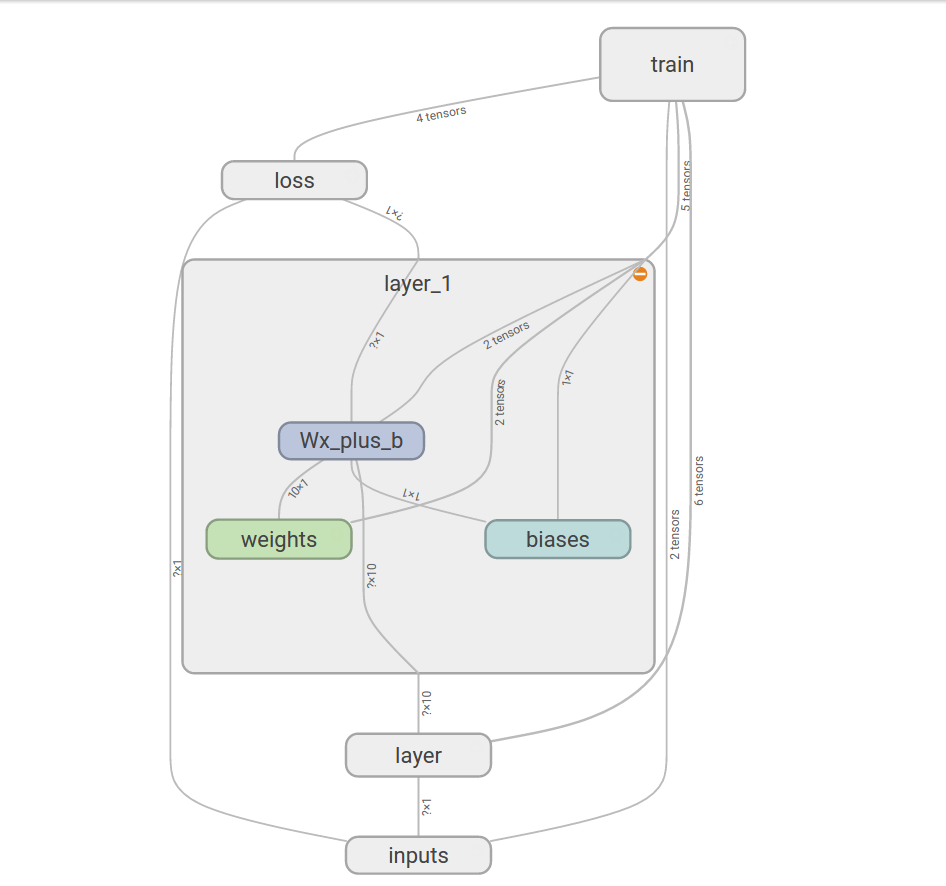
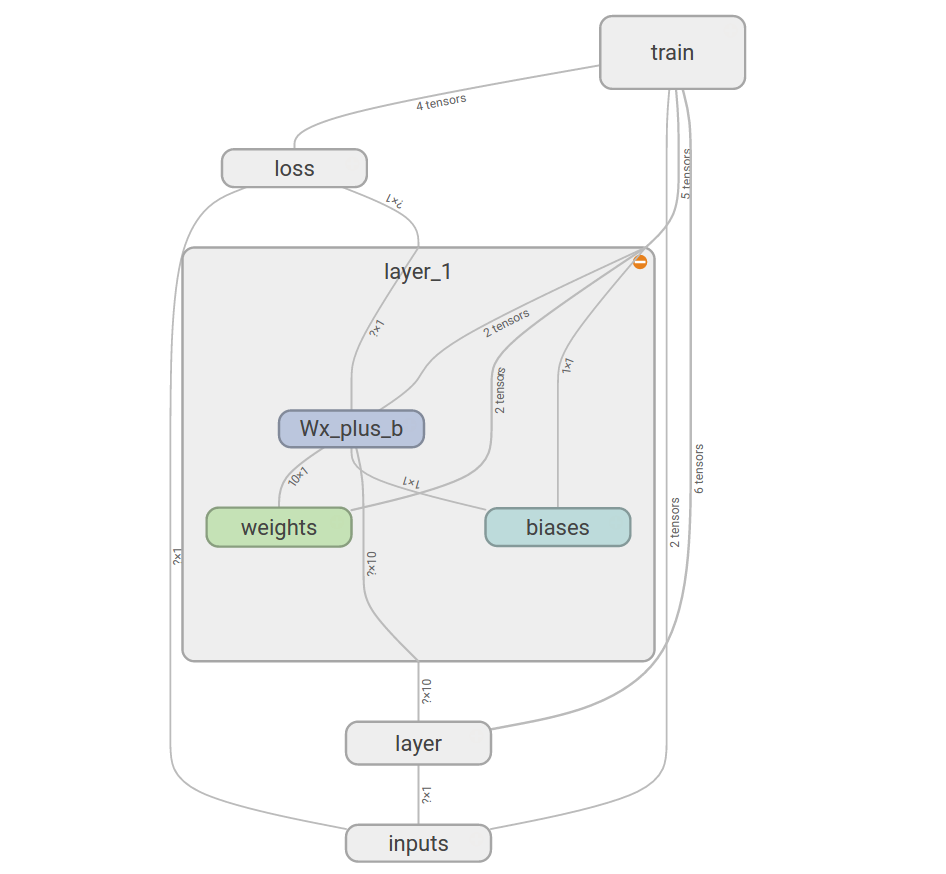
website content update
see details in blog

diff --git a/AI_eca/tensorflowLearn/notes.html b/AI_eca/tensorflowLearn/notes.html
@@ -4,7 +4,7 @@
     <meta charset="utf-8">
     <meta http-equiv="X-UA-Compatible" content="IE=edge">
     <title>AI construction site</title>
-    <link rel="stylesheet" href="css/notes_0-0-1a1.css">
+    <link rel="stylesheet" href="css/notes_0-0-1a2.css">
 </head>
 <body>
 	<header class="tm-header">
@@ -32,20 +32,42 @@
 	<div class="tm-container">
 		<div class="tm-content">
 			<img src="assets/tensorflowTitle.jpg" style="width: 100%">
-			<article>
+
+			<article id="tensorflowNotesTitle">
 				<h2>Tensorflow notes</h2>
-				<p>
+			</article>
+			
+			<article id="tensorflowStucture">
+				<h3>
 					the basic structure of a tensorflow program
+				</h3>
+				<img src="assets/Tensorflow_graphs.png" style="width: 100%">
+			</article>
+
+			<article id="usingTensorboard">
+				<h3>
+					using tensorboard to visualize the model
+				</h3>
+				<img src="assets/MyTensorboard.png" style="width: 100%">
+				<p>
+					put this in your code after the session sess is defined:<br>
+					writer = tf.summary.FileWriter('./graphs', sess.graph)<br>
+					writer.close()<br>
+					<br>
+					use this command in the terminal to start the tensorboard at 127.0.0.1:6006<br>
+					tensorboard --logdir="./graphs"
 				</p>
 			</article>
-			<img src="assets/Tensorflow_graphs.png" style="width: 100%">
+			
 		</div>
 
 		<aside class="tm-sidebar">
 			<div>
 				<h3>other</h3>
 				<ul>
-					<li>item1</li>
+					<a href="#tensorflowNotesTitle">tensorflow notes</a><br>
+					<a href="#tensorflowStucture">- tensorflow structures</a><br>
+					<a href="#usingTensorboard">- using tensorflow</a><br>
 				</ul>
 			</div>
 		</aside>

diff --git a/blog/blog.html b/blog/blog.html
@@ -80,6 +80,14 @@
             </p>
         </div>
 
+        <div id="0x0007" class="blogs">
+            <p class="blogID">0x0007 2018/1/18/15/18</p>
+            <p class="blogText">
+                add tensorboard tutorial to tensorflow notes, modified the css file about artical to make it looks better.
+                The lol background in main page is also deleted for safty reasons.
+            </p>
+        </div>
+
     </div>
 
     <!--menu bar-->
@@ -92,6 +100,7 @@
         <br> <a href="#0x0004">0x0004</a>
         <br> <a href="#0x0005">0x0005</a>
         <br> <a href="#0x0005">0x0006</a>
+        <br> <a href="#0x0005">0x0007</a>
     </div>
 
 

diff --git a/index.html b/index.html
@@ -5,7 +5,7 @@
     <meta charset="utf-8">
     <meta http-equiv="X-UA-Compatible" content="IE=edge">
     <title>Linzexin's website</title>
-    <link rel="stylesheet" href="main_0-0-1a5.css">
+    <link rel="stylesheet" href="main_0-0-1a6.css">
 </head>
 
 <body>

diff --git a/AI_eca/tensorflowLearn/css/notes_0-0-1a2.css b/AI_eca/tensorflowLearn/css/notes_0-0-1a2.css
@@ -12,12 +12,17 @@ p
 {
 	margin: 10px;
 	margin-bottom: 20px;
+
+	padding: 5px;
+
+	background-color: #FFF;
 }
 
 article
 {
 	background-color: #fff;
 	padding: 10px;
+	margin-bottom: 5px;
 }
 
 h1, h2, h3, h4, h5, h6

diff --git a/main_0-0-1a6.css b/main_0-0-1a6.css
@@ -96,7 +96,6 @@ a:visited
     float: left;
     width: 70%;
     height: 300px;
-    background: url("assets/LOL1.png") no-repeat top;
     background-size: 100% auto;
 }
 
